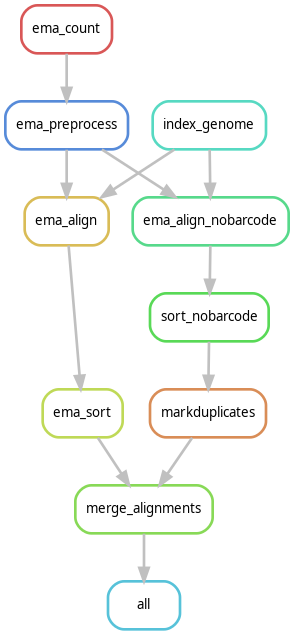
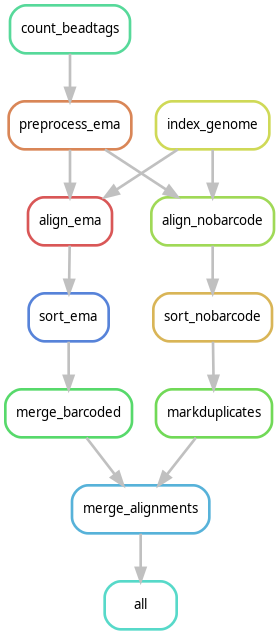
add separate merge for split stats

diff --git a/README.md b/README.md
@@ -1,3 +1,36 @@
 ![logo](misc/harpy.svg)
 
 Experimental Haplotagging Data Processing Pipeline
+
+#### Dependencies
+Until this pipeline gets completed and hosted on Bioconda, it will be available by cloning/downloading this repository. The dependencies can be installed into a conda environment using the provided `harpyenv.yaml`:
+```bash
+conda env create --name harpy --file harpyenv.yaml
+```
+
+#### Usage
+```
+./harpy --help
+                                                           
+ Usage: harpy [OPTIONS] COMMAND [ARGS]...                       
+                                                                
+ HARPY Haplotagging data processing pipeline.                   
+ The pipeline trims reads, map sequences, calls variants,       
+ imputes genotypes, and phases haplotypes. Get started by       
+ running 'harpy init' to generate a configuration file and      
+ modify it to your needs. The workflow is:                      
+ init 🡒 trim 🡒 align 🡒 callvariant 🡒 impute 🡒 phase             
+ Documentation: https://harpy.github.io                         
+                                                                
+╭─ Options ────────────────────────────────────────────────────╮
+│ --help      Show this message and exit.                      │
+╰──────────────────────────────────────────────────────────────╯
+╭─ Commands ───────────────────────────────────────────────────╮
+│ align          Align sample sequences to a reference genome. │
+│ callvariants   Call variants from sample alignments          │
+│ impute         Impute genotypes from genotype likelihoods    │
+│ init           Generate template configuration file          │
+│ phase          Phase SNPs into haplotypes                    │
+│ trim           Remove adapters and quality trim sequences    │
+╰──────────────────────────────────────────────────────────────╯
+```
